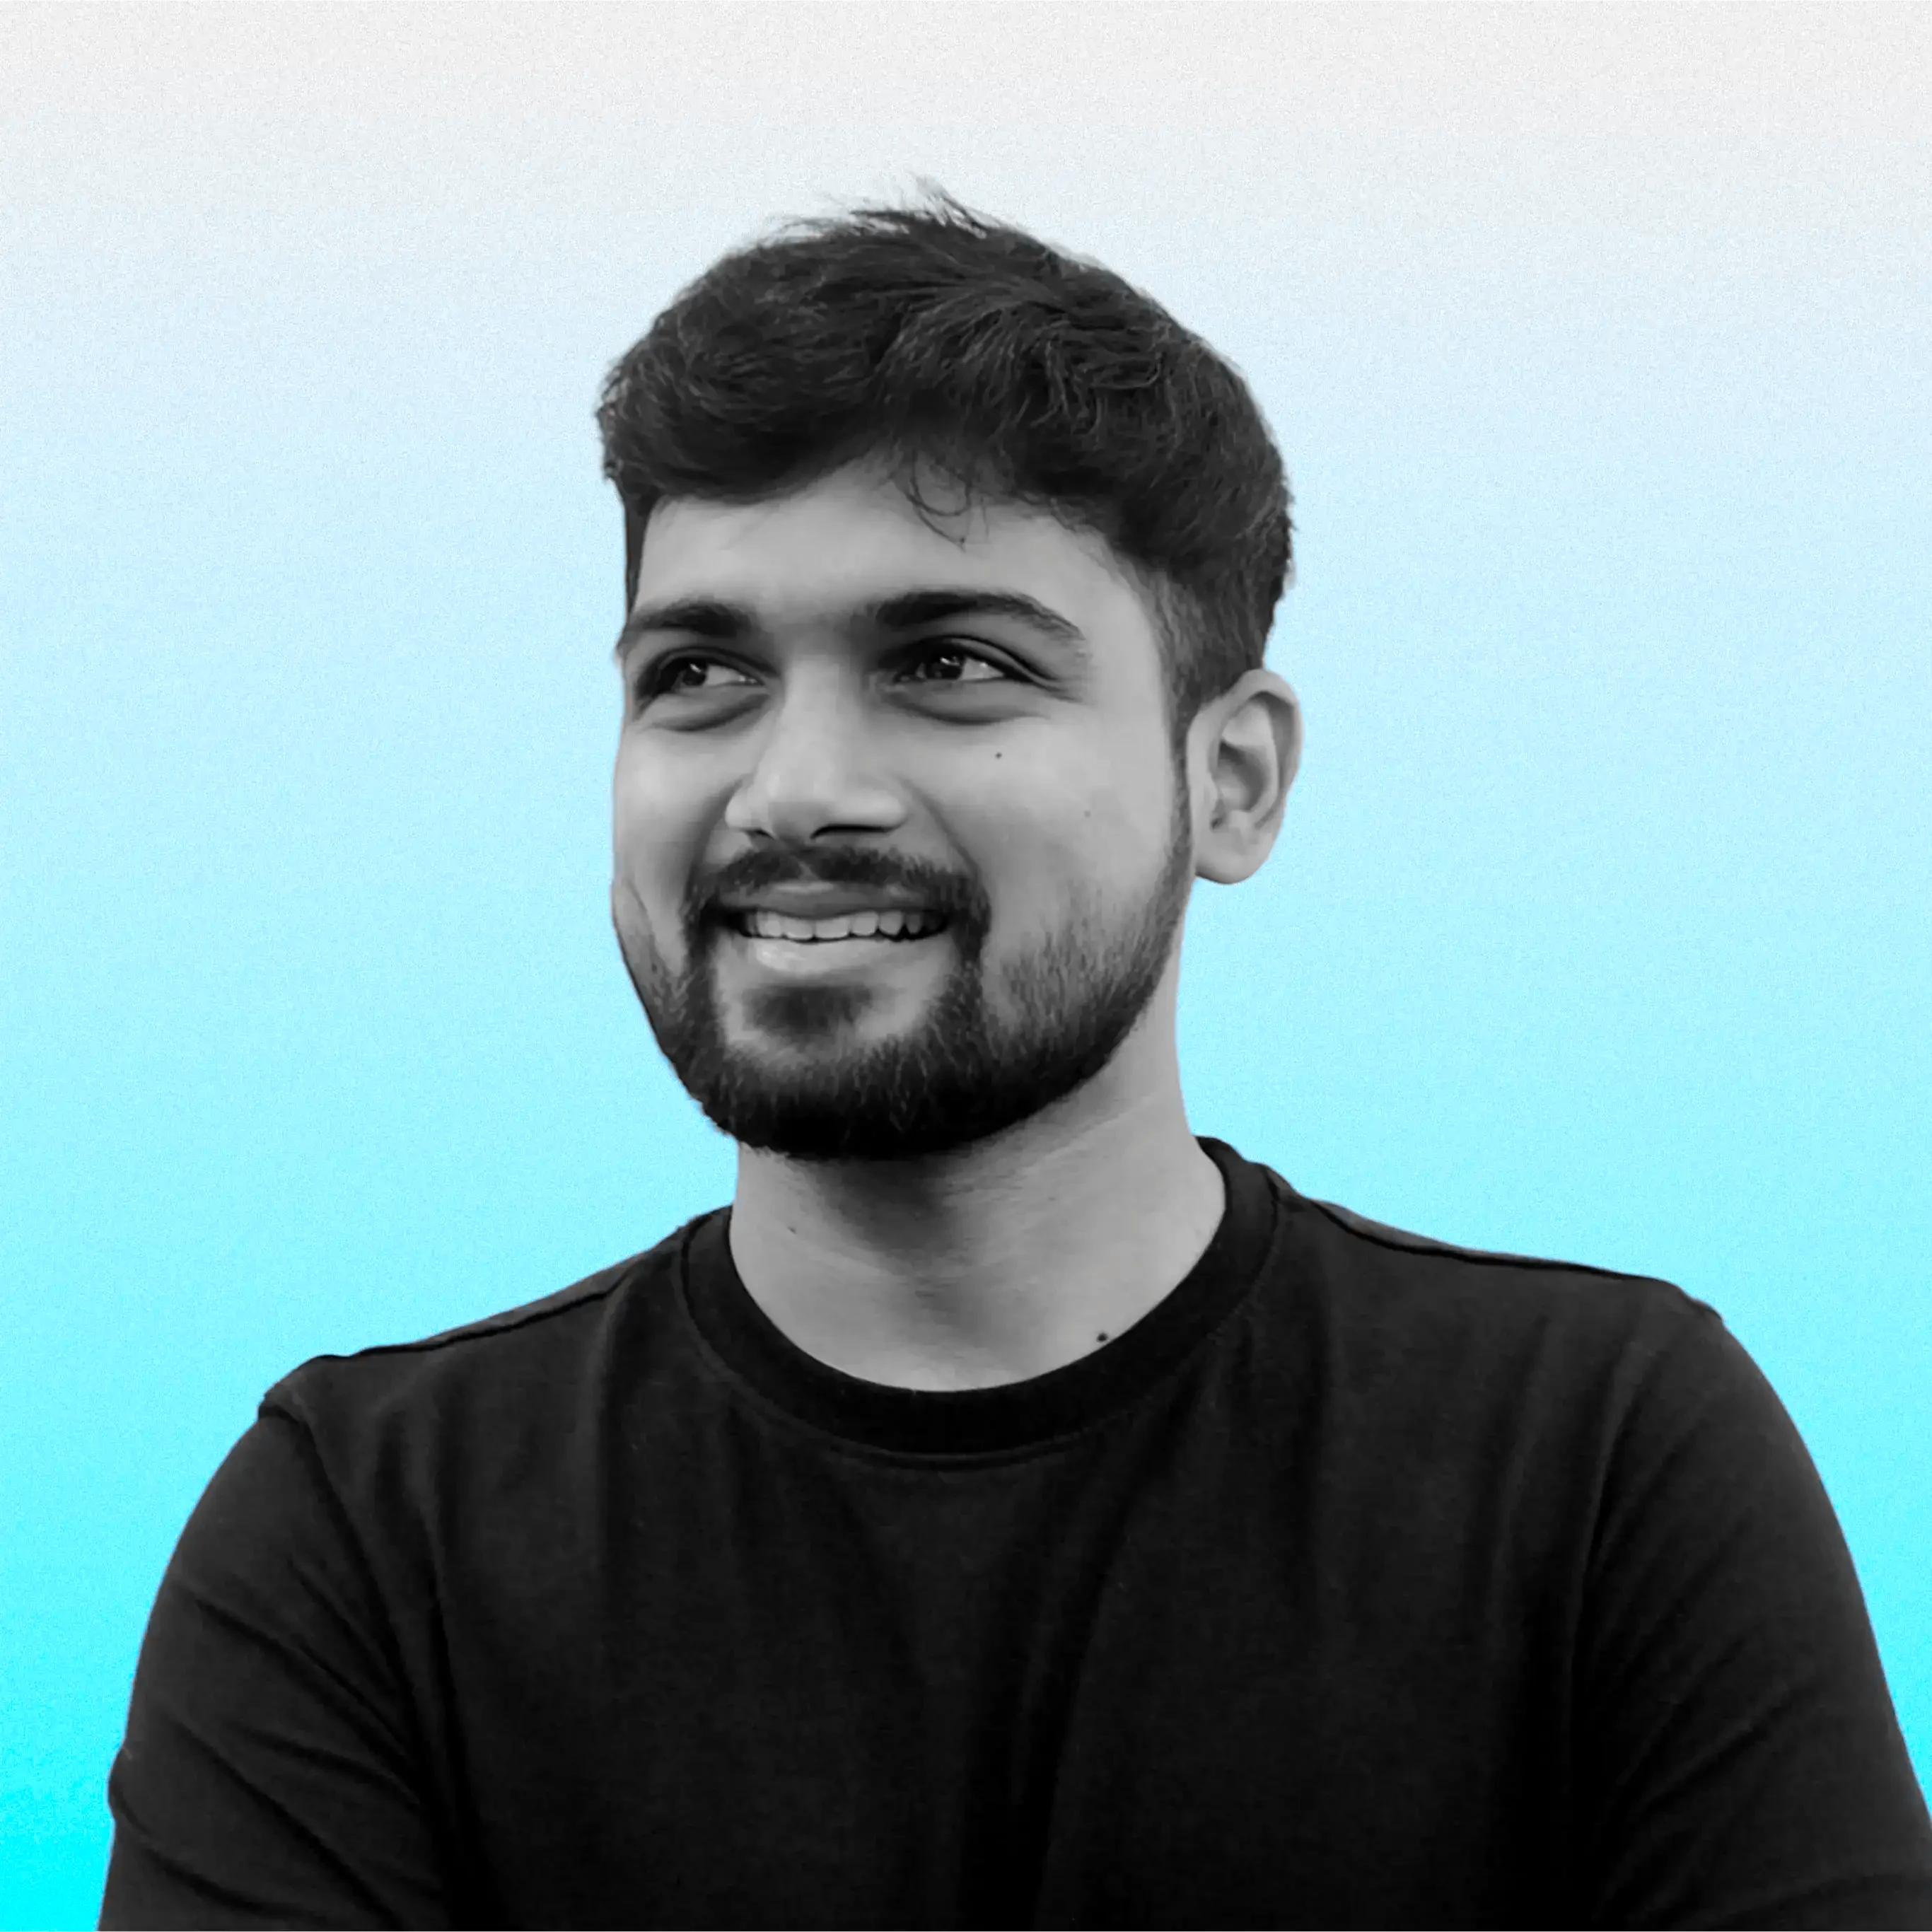
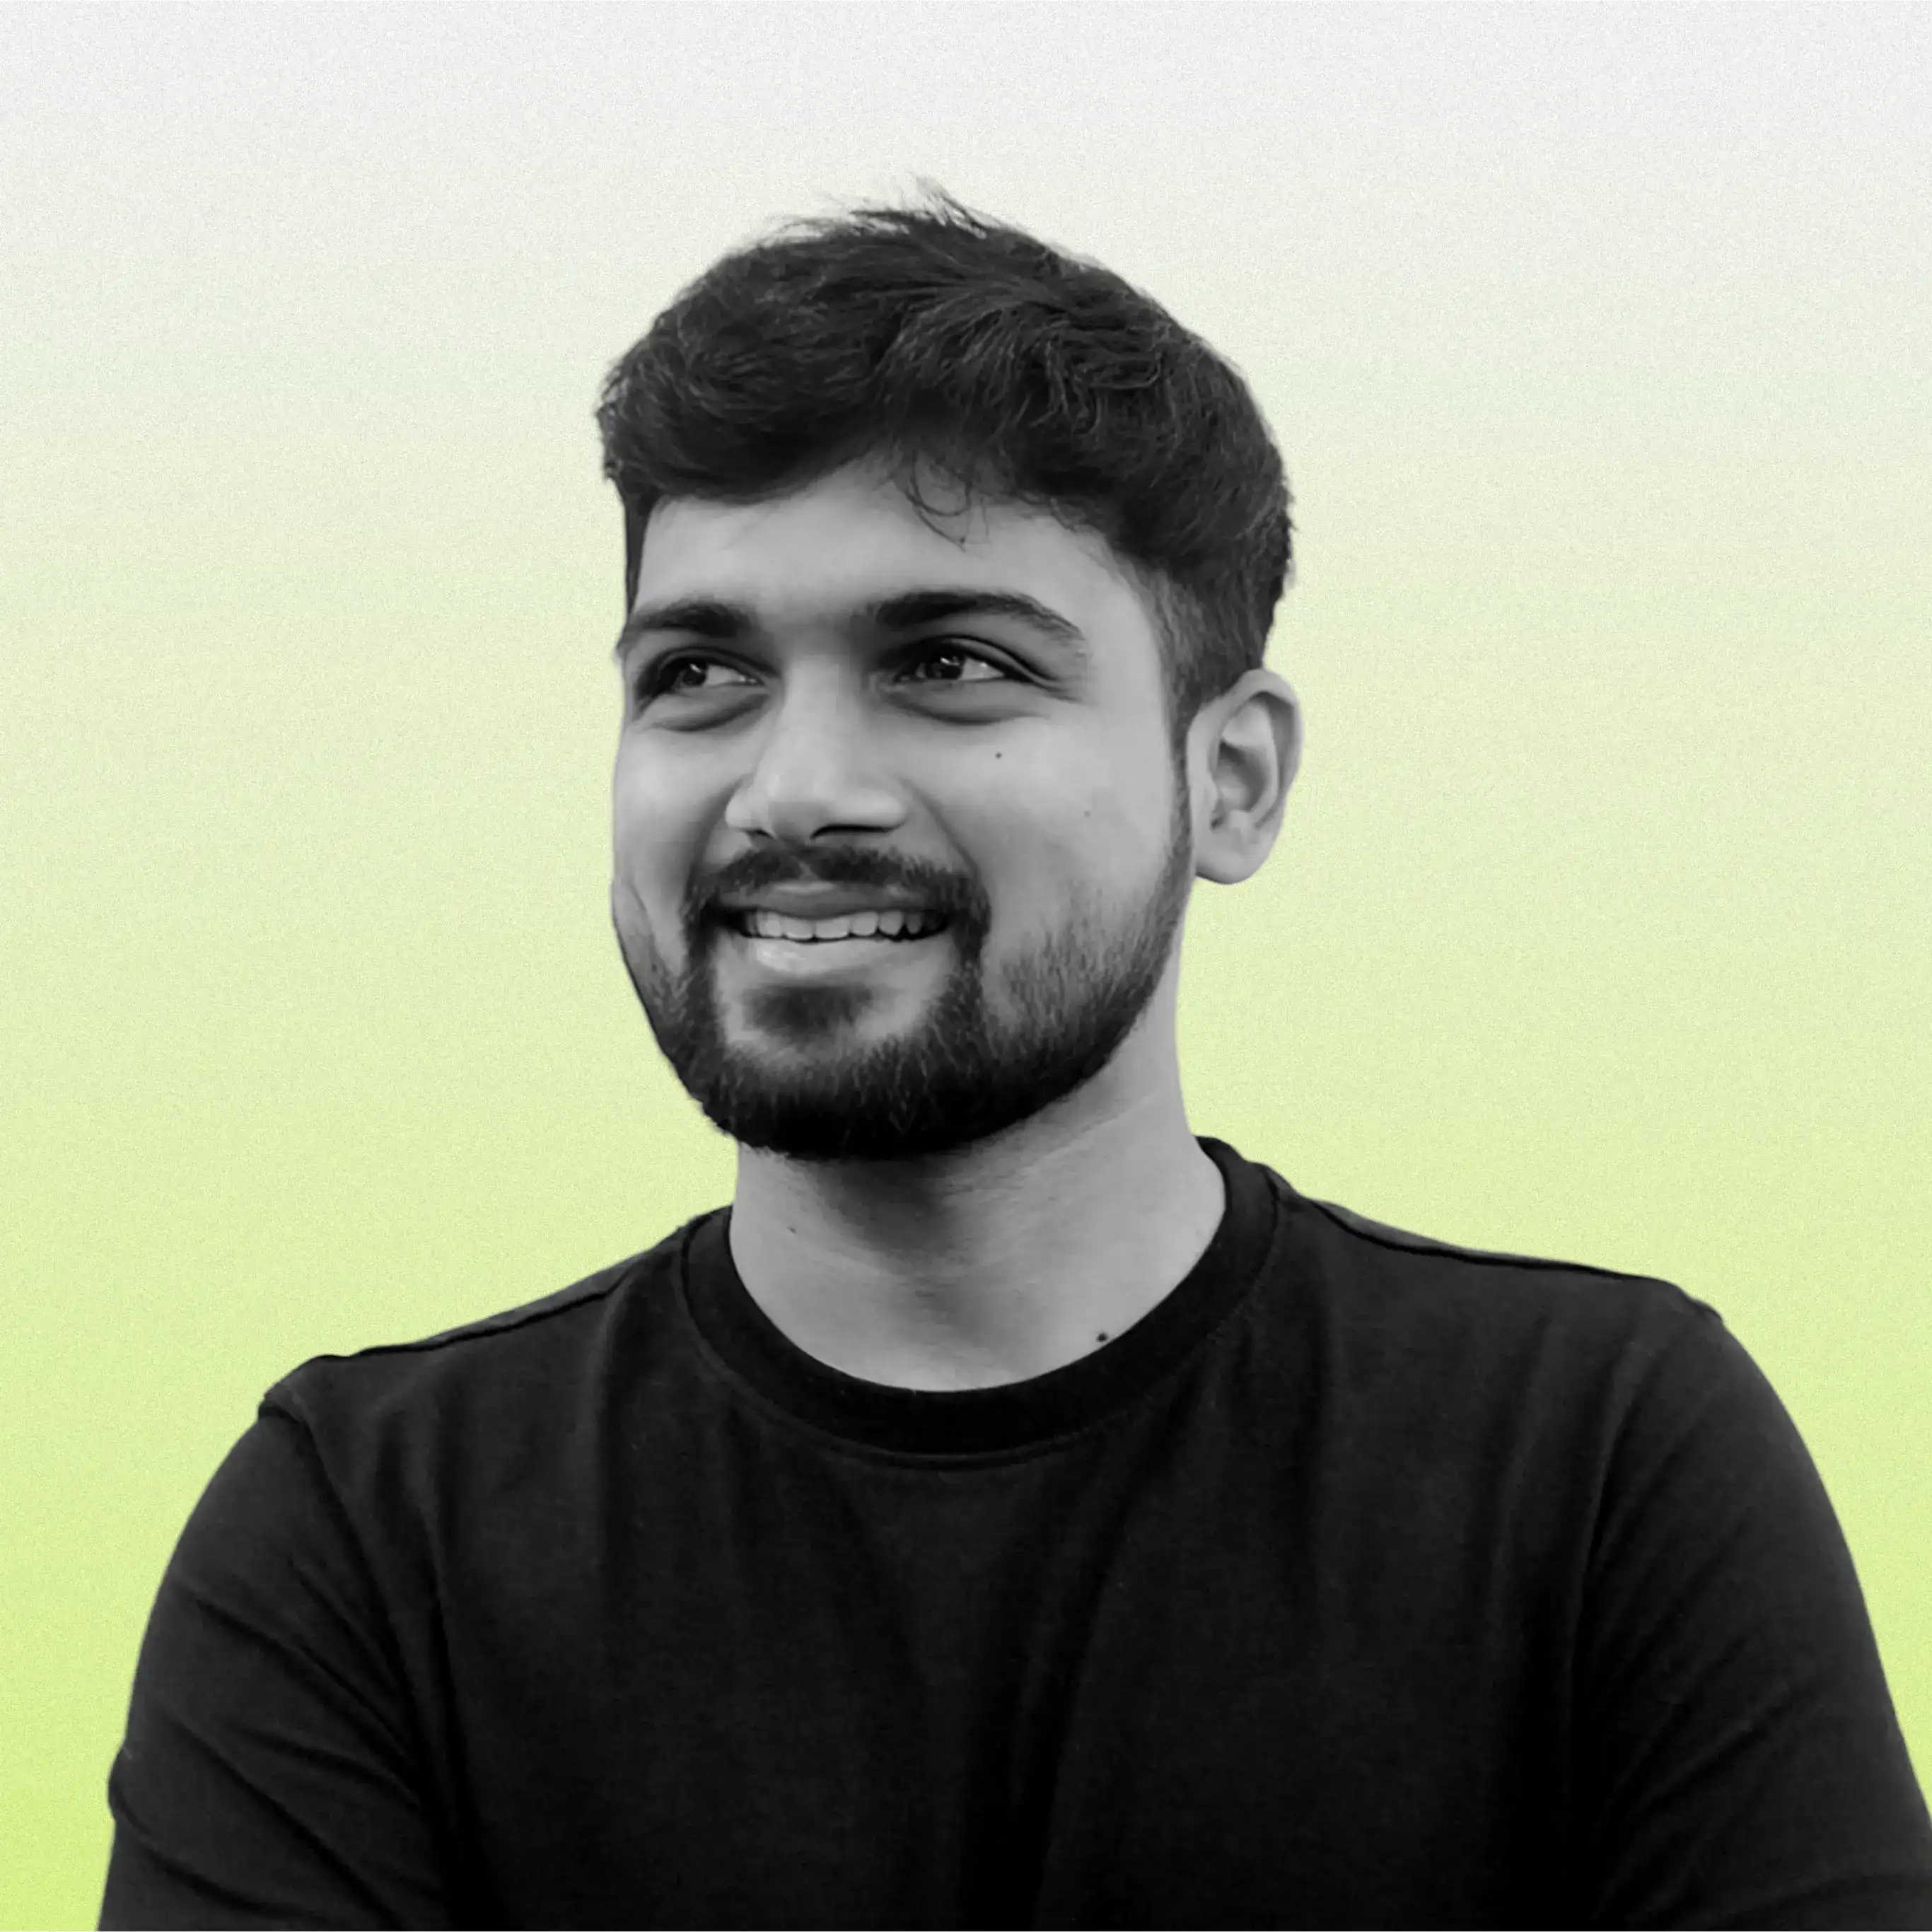
restore lime accent and improve load performance
Bring back the #c8ff54 brand marks and button accents, and cut mobile main-thread work by deferring the WebGL backdrop, preloading the latin font, and compressing the build output.

diff --git a/src/styles/globals.css b/src/styles/globals.css
@@ -4,11 +4,10 @@
 
 @theme {
   /*
-    Accent, keyed to the FoldGradient backdrop's blue register (it sits
-    between the wallpaper's azure and ice stops) so every interactive
-    highlight reads as lifted from the artwork behind it.
+    Accent — the original lime (#c8ff54). Buttons, CTA glow, links, and
+    brand marks all key off this token.
   */
-  --color-glow: #00c2ff;
+  --color-glow: #c8ff54;
   --color-dark-blue: rgb(12, 13, 17);
   --color-border: hsl(var(--border));
   --color-input: hsl(var(--input));
@@ -101,8 +100,7 @@
 
 @layer utilities {
   .gloww:hover {
-    box-shadow: 0 0 30px 10px
-      color-mix(in srgb, var(--color-glow) 35%, transparent);
+    box-shadow: 0 0 30px 10px rgba(200, 255, 84, 0.4);
   }
 
   /*
@@ -128,6 +126,29 @@
   /* Fades the shader canvas in over .backdrop-base once it mounts. */
   .animate-backdrop-in {
     animation: backdrop-in 1.6s ease-out both;
+  }
+
+  /*
+    The FoldGradient shader (paper-design) sizes its <canvas> via a <style>
+    element it injects into <head> at runtime. Astro's ClientRouter strips
+    every non-persisted <head> node on the first page swap, so that injected
+    style disappears after navigating - while the backdrop canvas itself lives
+    on (transition:persist) with no layout left, collapsing to a small box in
+    the top-left. Re-declaring the same full-bleed rules here (this stylesheet
+    ships in every page's head, so it survives swaps) keeps the canvas covering
+    the viewport across navigations.
+  */
+  [data-paper-shader] {
+    position: relative;
+    isolation: isolate;
+  }
+  [data-paper-shader] canvas {
+    position: absolute;
+    inset: 0;
+    display: block;
+    width: 100%;
+    height: 100%;
+    border-radius: inherit;
   }
 
   @keyframes backdrop-in {

diff --git a/src/styles/fonts.css b/src/styles/fonts.css
@@ -1,0 +1,13 @@
+/* Latin-only DM Sans variable — skips latin-ext (~18KB) we never use in UI. */
+@font-face {
+  font-family: 'DM Sans Variable';
+  font-style: normal;
+  font-display: swap;
+  font-weight: 100 1000;
+  src: url('@fontsource-variable/dm-sans/files/dm-sans-latin-wght-normal.woff2')
+    format('woff2-variations');
+  unicode-range:
+    U+0000-00FF, U+0131, U+0152-0153, U+02BB-02BC, U+02C6, U+02DA, U+02DC,
+    U+0304, U+0308, U+0329, U+2000-206F, U+20AC, U+2122, U+2191, U+2193, U+2212,
+    U+2215, U+FEFF, U+FFFD;
+}

diff --git a/README.md b/README.md
@@ -45,11 +45,12 @@ src/
 
 ### Interactivity
 
-Following an islands-first approach, most of the UI is static HTML/CSS. Only three
-components hydrate on the client:
+Following an islands-first approach, most of the UI is static HTML/CSS. Only a
+few components hydrate on the client:
 
-- `ContactDrawer` (vaul) — the contact/resume drawer
-- `GlowingStarsCta` (framer-motion) — the animated CTA
+- `ContactDrawer` (vaul) — the contact/resume drawer (`client:idle`)
+- `GlowingStarsCta` (framer-motion) — the animated CTA (`client:visible`)
+- `ShaderBackdrop` — WebGL wallpaper, desktop only (`client:media`)
 - `ImageGallery` — the load-more photo gallery
 
 Vanilla pieces (nav/footer click sounds, scroll-driven fade-ins, the skills orbit,